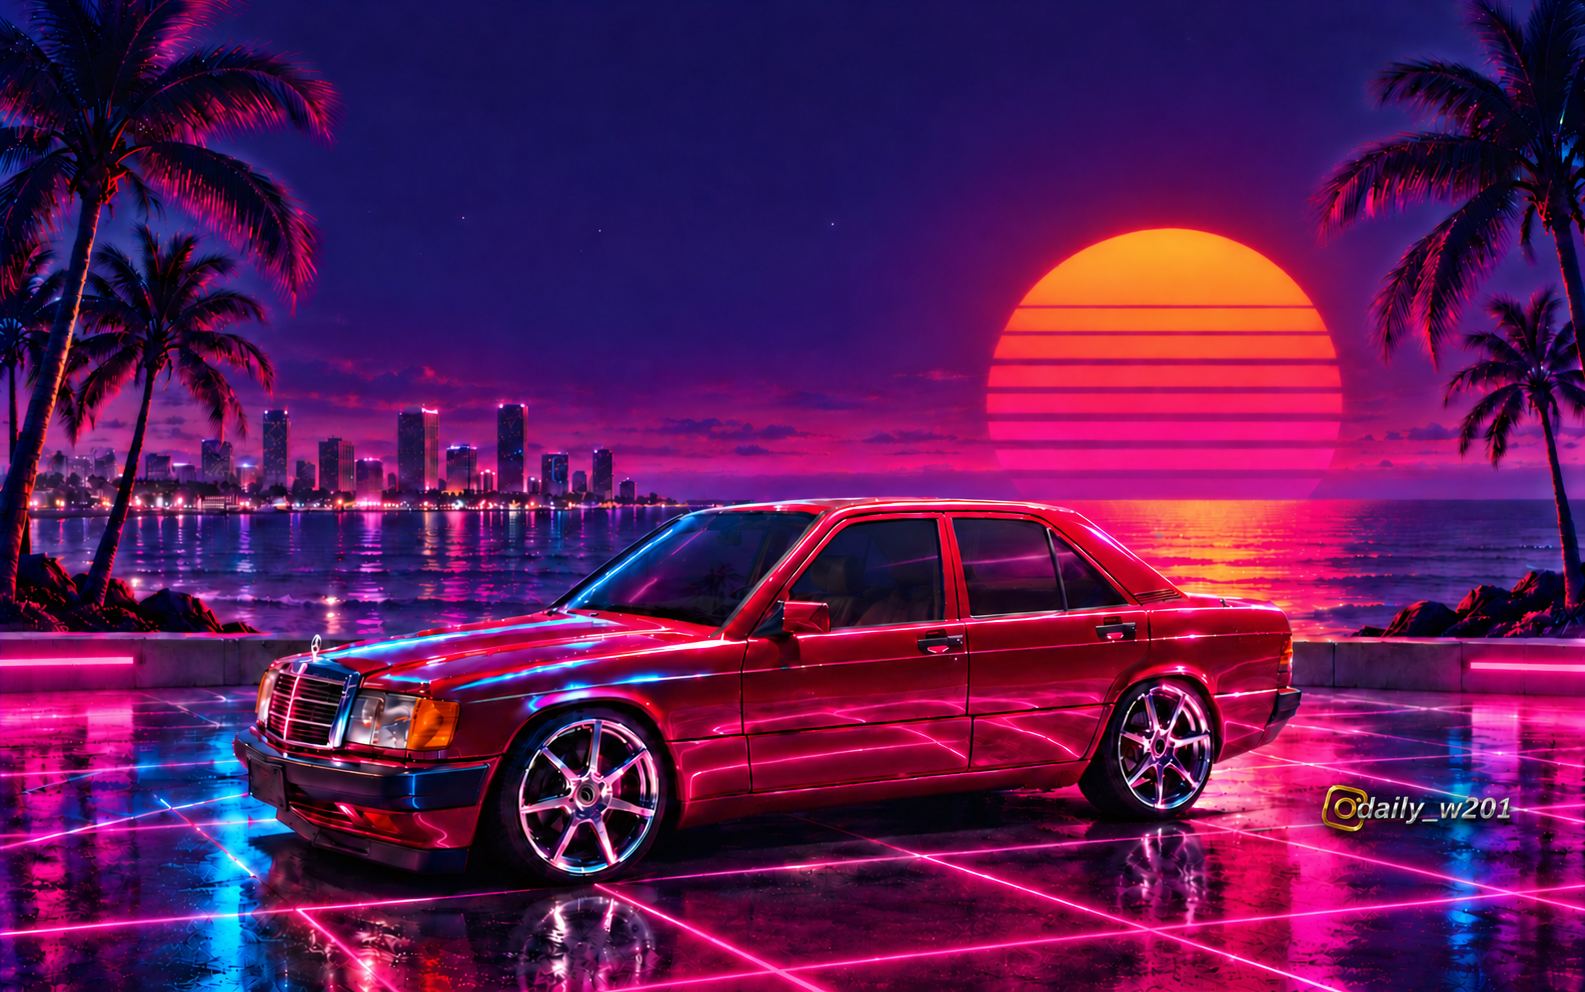
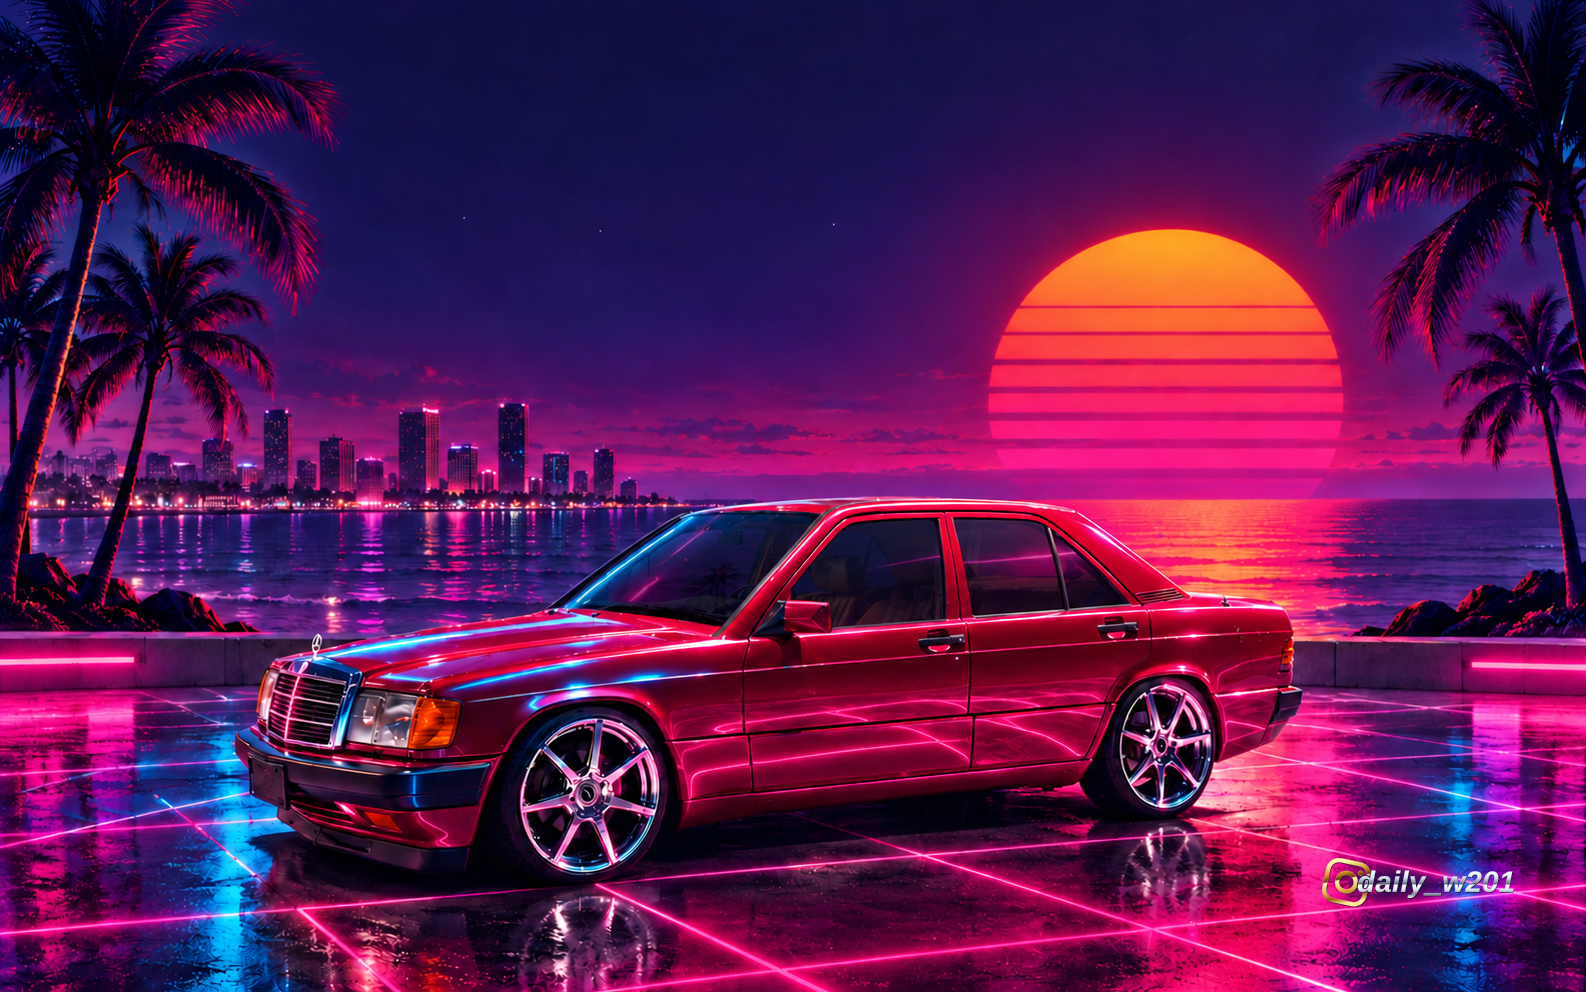
Finalize original-detail wallpaper and signature placement (#4)
* Add Mercedes Vice theme and optional custom icons

* Show desktop and optional folder icons in README

* Keep wallpaper signature visible on widescreen displays

* Finalize original-detail wallpaper and signature placement

---------

diff --git a/README.md b/README.md
@@ -77,6 +77,6 @@ These rules are optional and persist across themes. The btop rule matches Omarch
 
 ## Artwork and license
 
-The wallpaper was created with AI assistance using the author's car photographs as references, then edited to add the `daily_w201` signature. Source photographs and generation prompts are not included.
+The wallpaper was created with AI assistance using the author's car photographs as references, then given a composited gold/chrome `daily_w201` signature. The original wallpaper pixels outside the signature are preserved, and the placement accommodates centered cropping on 16:9 and 16:10 displays. Source photographs and generation prompts are not included.
 
 MIT licensed; see [LICENSE](LICENSE). Referenced external icon themes remain under their own licenses and are not bundled. Mercedes-Benz and Instagram are referenced descriptively; this is an independent community theme with no affiliation or endorsement.
